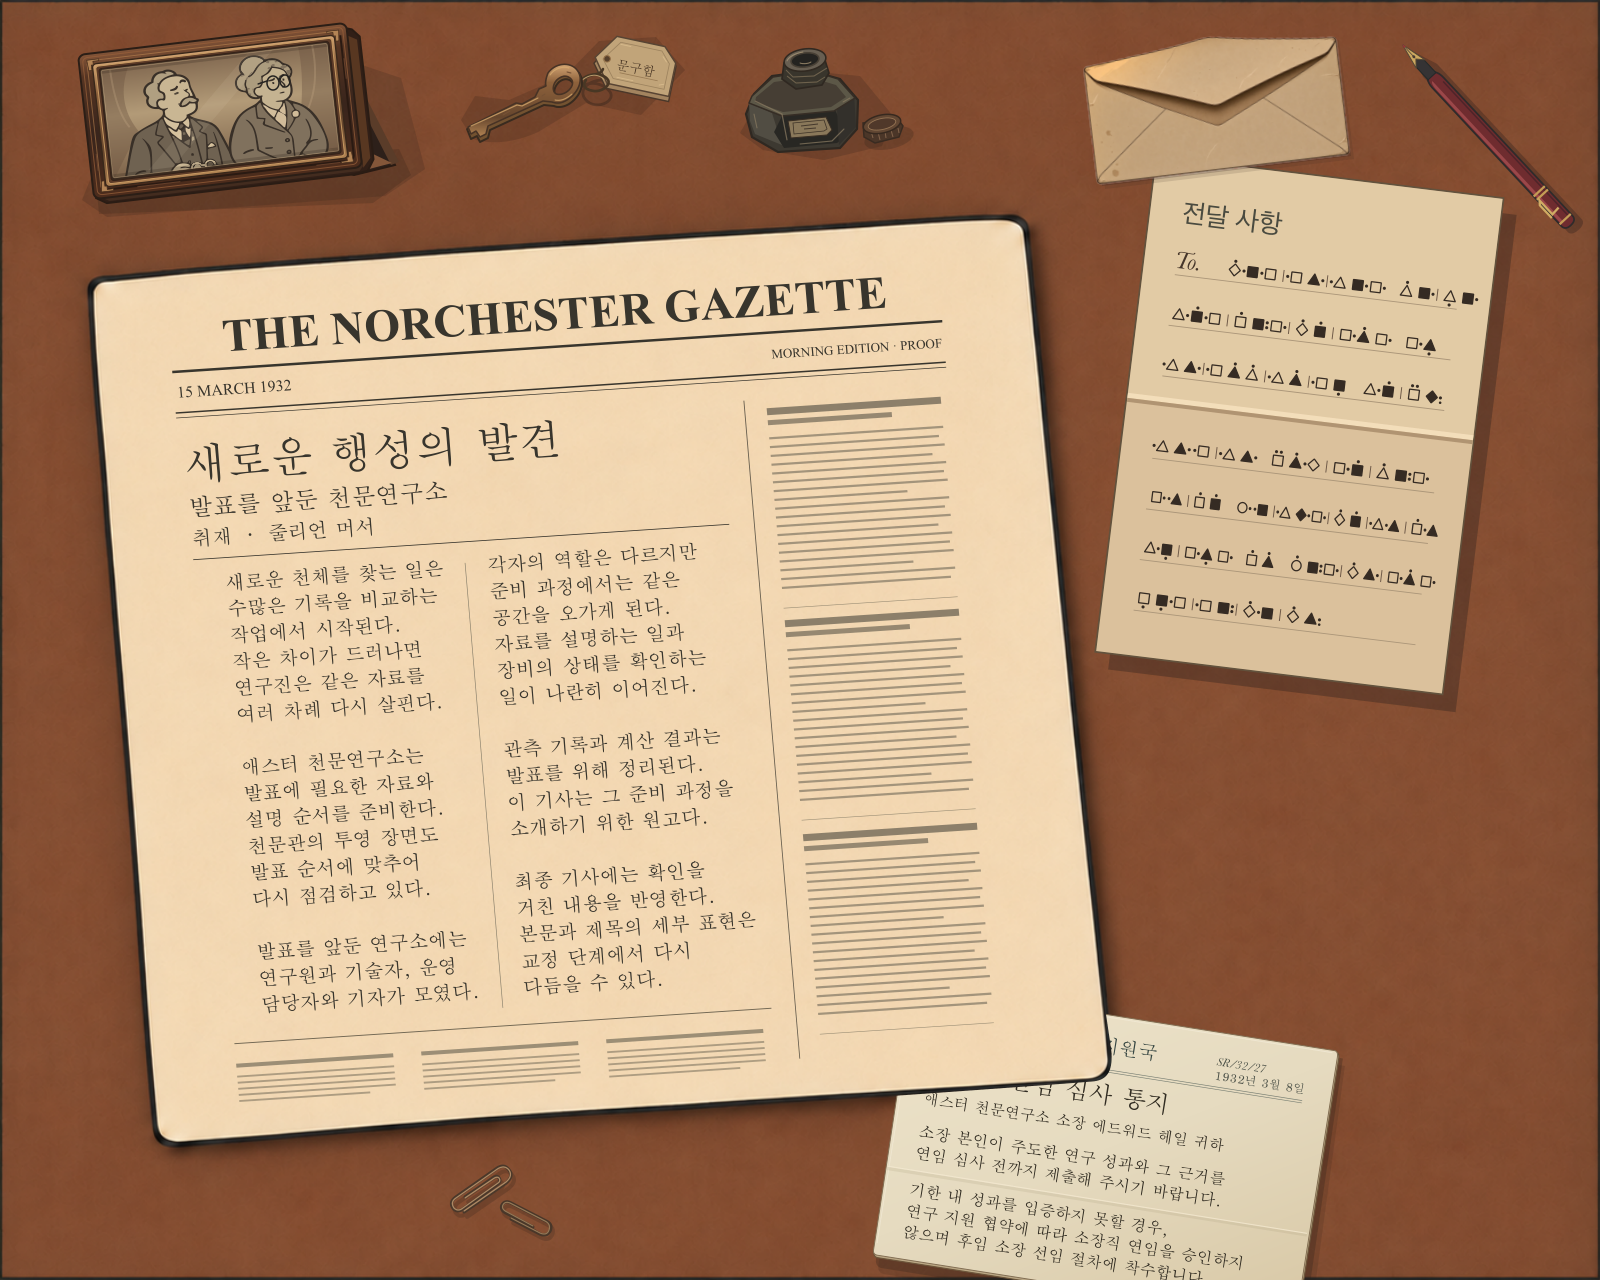
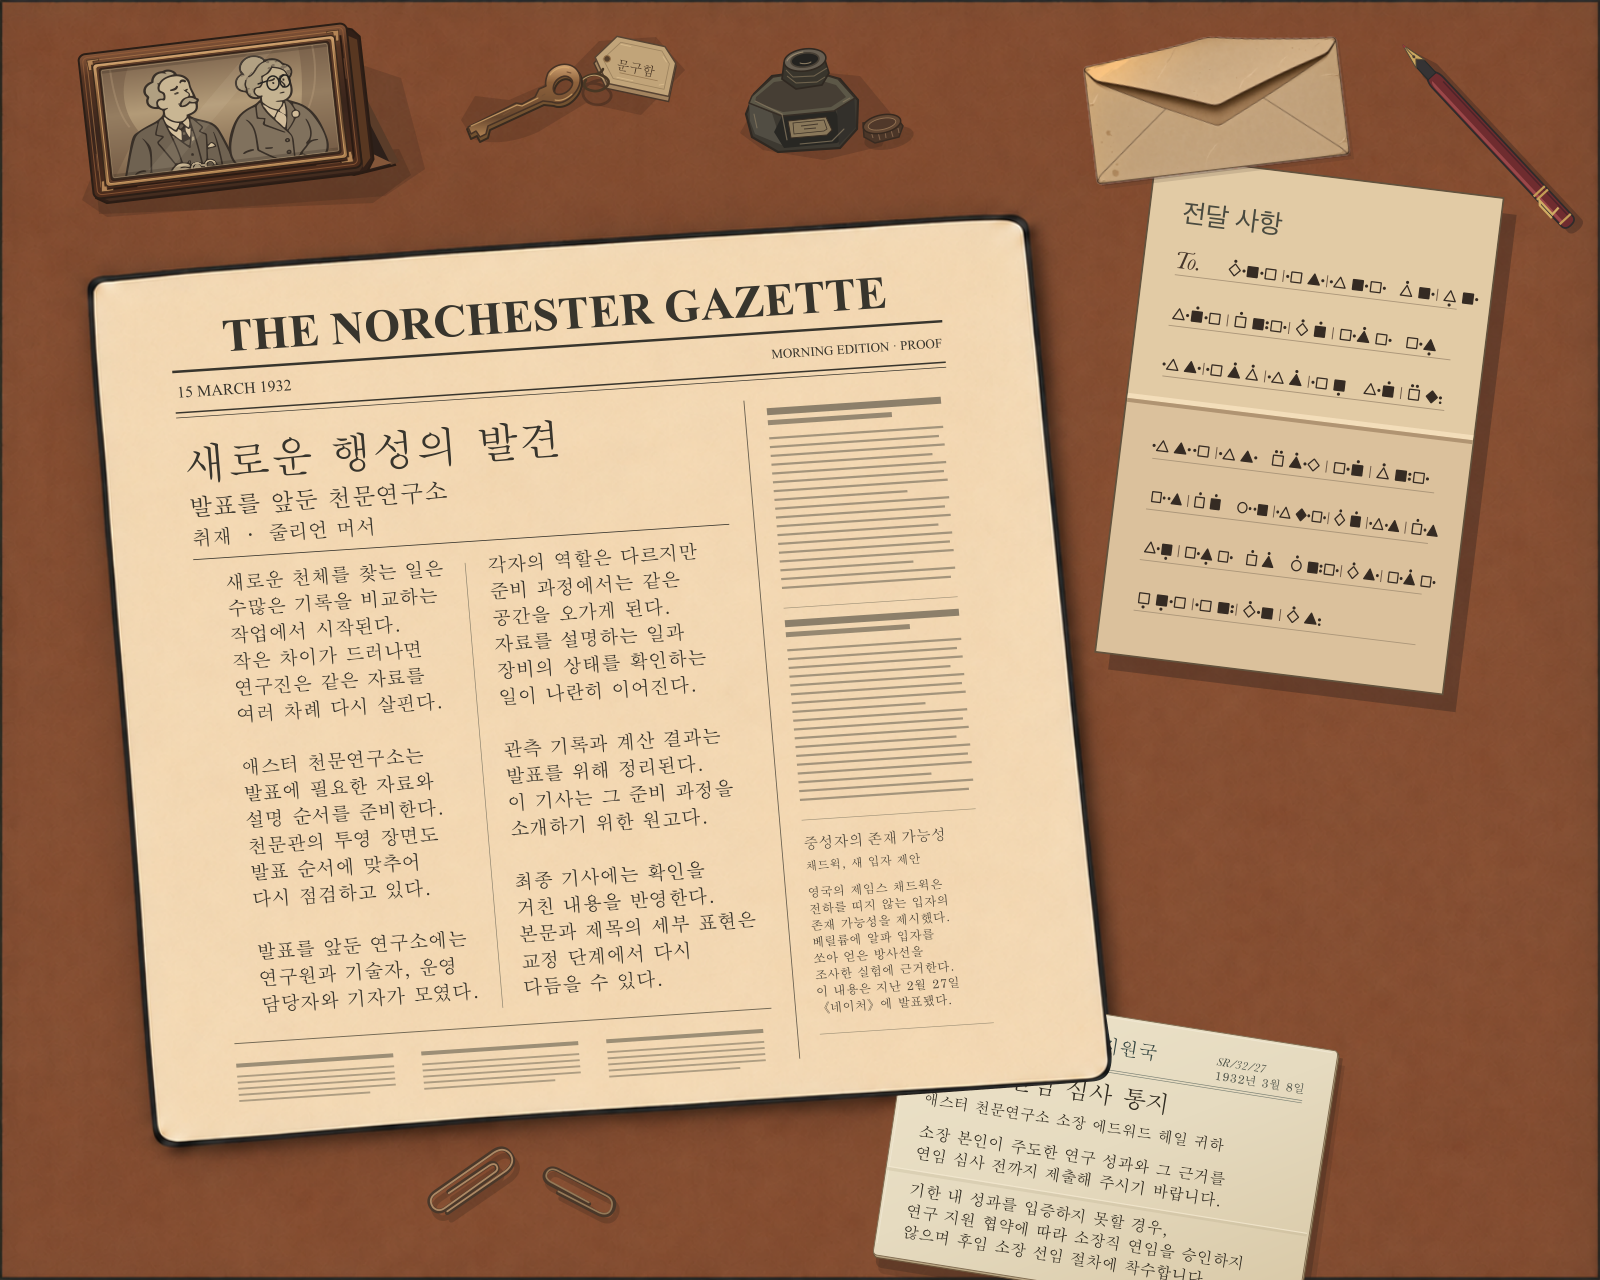
Refine office desk and add contemporary neutron news article

Changed region(s): [[0.5, 0.625, 0.625, 0.8125], [0.2812, 0.9062, 0.375, 0.9688]]

diff --git a/traces-of-guilt/case-data.js b/traces-of-guilt/case-data.js
@@ -50,7 +50,7 @@ export const caseFile = {
       title: "연구소장 집무실",
       action: "소장실 둘러보기",
       mapLabel: "소장실",
-      image: "planetarium/office.png?v=office-overview",
+      image: "planetarium/office.png?v=desk-details",
       position: [72, 18.5],
       align: "end",
       kind: "장소"
@@ -68,7 +68,7 @@ export const caseFile = {
       title: "기사 교정쇄",
       action: "교정쇄 확인하기",
       mapLabel: "교정쇄",
-      image: "planetarium/proof.png?v=character-faces",
+      image: "planetarium/proof.png?v=desk-details",
       position: [72, 32.1],
       align: "end"
     }

diff --git a/traces-of-guilt/index.html b/traces-of-guilt/index.html
@@ -9,7 +9,7 @@
   <title>Traces of Guilt</title>
   <link rel="canonical" href="https://iontail.github.io/traces-of-guilt/">
   <link rel="stylesheet" href="style.css?v=page-headings">
-  <script src="game.js?v=office-overview" type="module"></script>
+  <script src="game.js?v=desk-details" type="module"></script>
 </head>
 <body>
   <svg class="icon-definitions" aria-hidden="true" xmlns="http://www.w3.org/2000/svg">

diff --git a/traces-of-guilt/game.js b/traces-of-guilt/game.js
@@ -1,4 +1,4 @@
-import { caseFile } from "./case-data.js?v=office-overview";
+import { caseFile } from "./case-data.js?v=desk-details";
 
 const entrance = document.querySelector(".entrance");
 const enterButton = entrance.querySelector(".enter-room");
